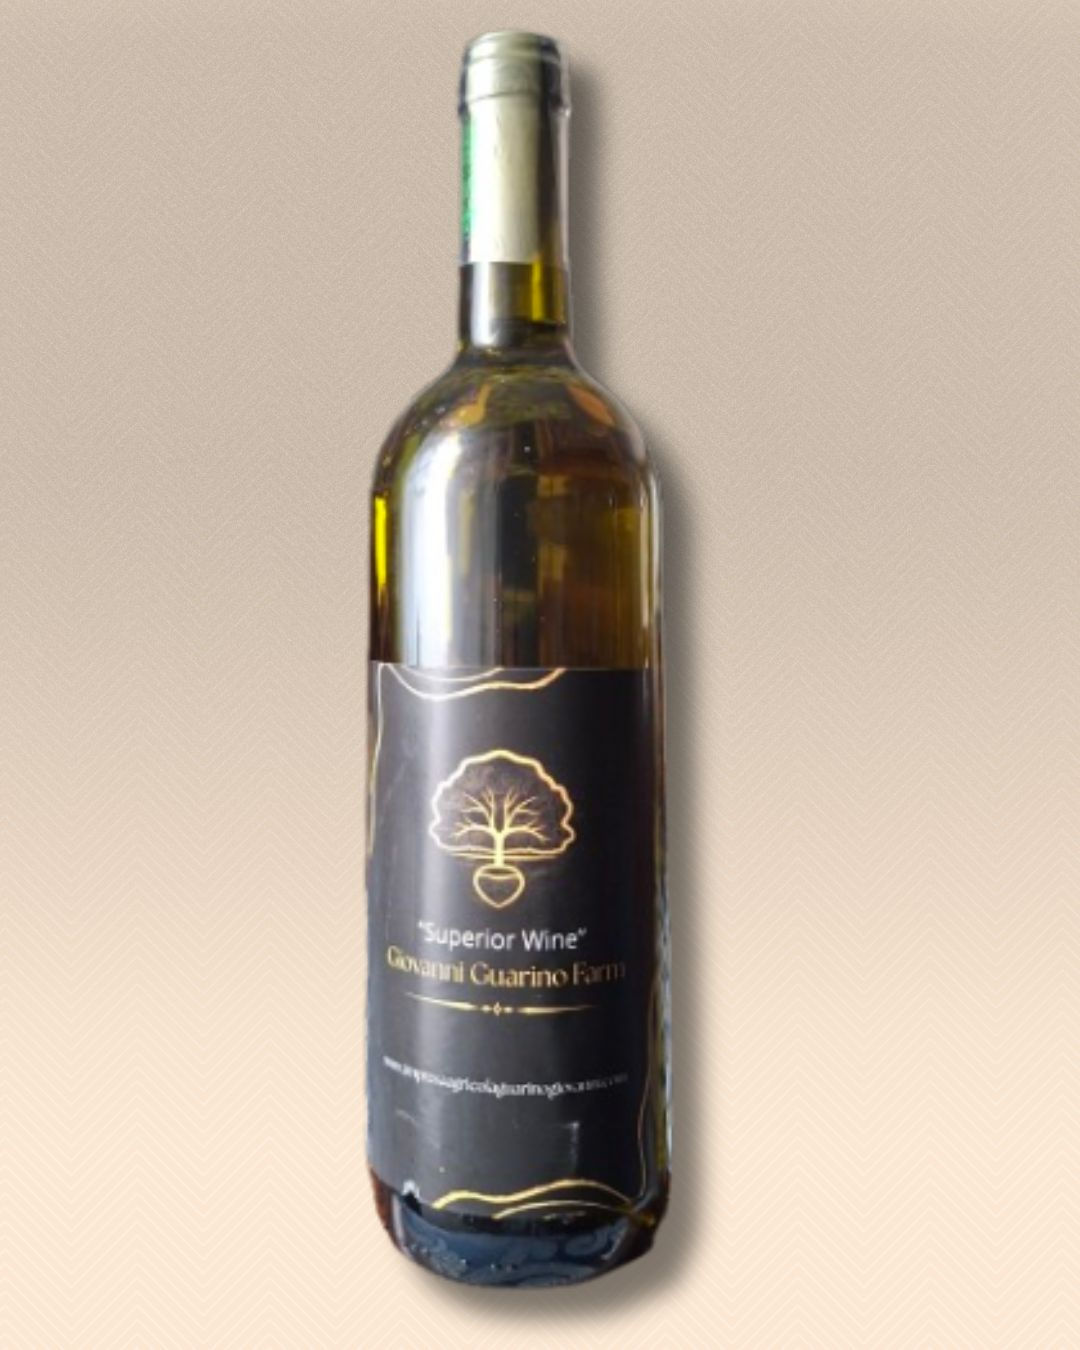
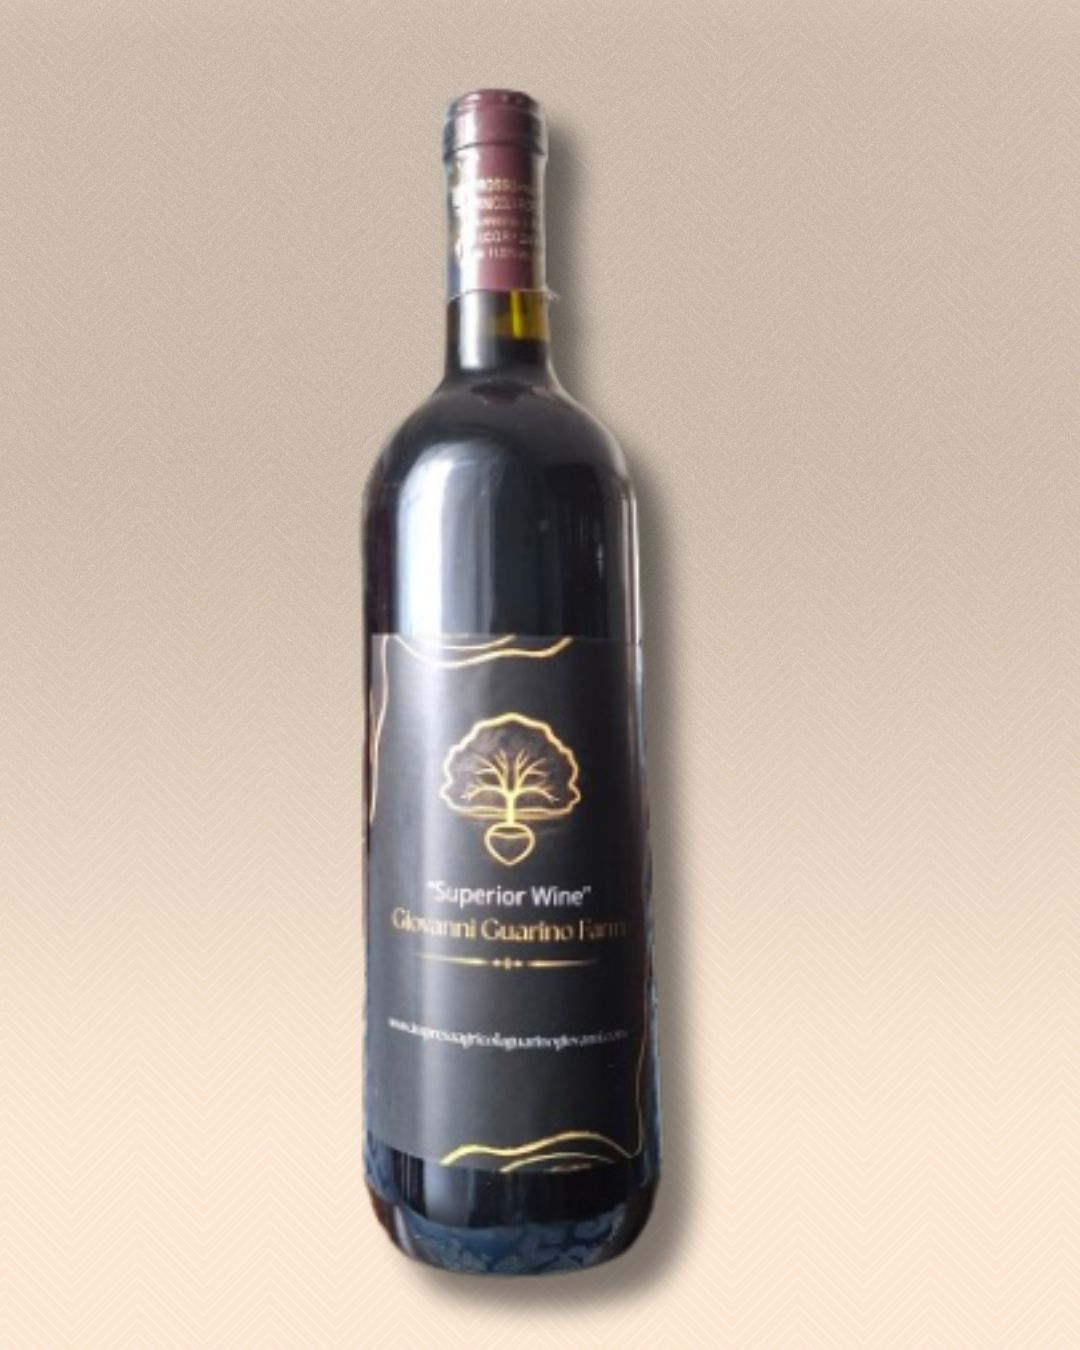
Inverte foto vino rosso e bianco, titoli rinominati in Giovanni Farm

Changed region(s): [[0.3056, 0.0, 0.6722, 0.9956]]

diff --git a/index.html b/index.html
@@ -5,7 +5,7 @@
     <link rel="icon" type="image/png" href="/favicon.png" />
     <link rel="icon" type="image/x-icon" href="/favicon.ico" />
     <link rel="apple-touch-icon" href="/favicon.png" />
-    <title>Impresa Agricola Guarino Giovanni — L'Arte della Natura</title>
+    <title>Giovanni Farm — L'Arte della Natura</title>
     <meta name="description" content="Impresa Agricola Guarino Giovanni — Prodotti di alta qualità da Teano (Ce): mele Annurca, nocciole, nettarine e molto altro. L'arte della natura dal 1985." />
     <meta name="viewport" content="width=device-width, initial-scale=1.0" />
     <link rel="preconnect" href="https://fonts.googleapis.com">

diff --git a/src/components/Footer.tsx b/src/components/Footer.tsx
@@ -115,7 +115,7 @@ export function Footer() {
                 ) : (
                   <Leaf className="w-10 h-10 text-[#ff5e14]" />
                 )}
-                <span className="text-2xl font-serif font-bold text-white">Impresa Agricola Guarino Giovanni</span>
+                <span className="text-2xl font-serif font-bold text-white">Giovanni Farm</span>
               </div>
               <p className="text-[#7e7e7e] mb-8 leading-relaxed">
                 Impresa Agricola Guarino Giovanni — fondata nel 1985 a Teano (Ce). Produzione di mele Annurca, nocciole e nettarine su 70 ettari di terreno vulcanico. L'arte della natura.

diff --git a/src/components/Header.tsx b/src/components/Header.tsx
@@ -92,7 +92,7 @@ export function Header() {
             <span className={`text-xl font-serif font-bold ${
               isScrolled ? 'text-forest' : 'text-white'
             } transition-colors duration-500`}>
-              Giovanni Guarino
+              Giovanni Farm
             </span>
           </motion.a>
 
